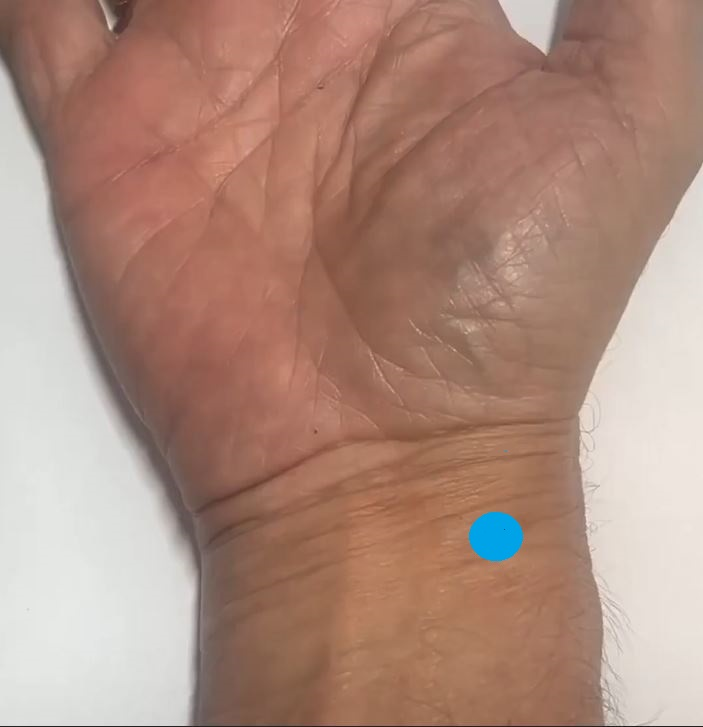
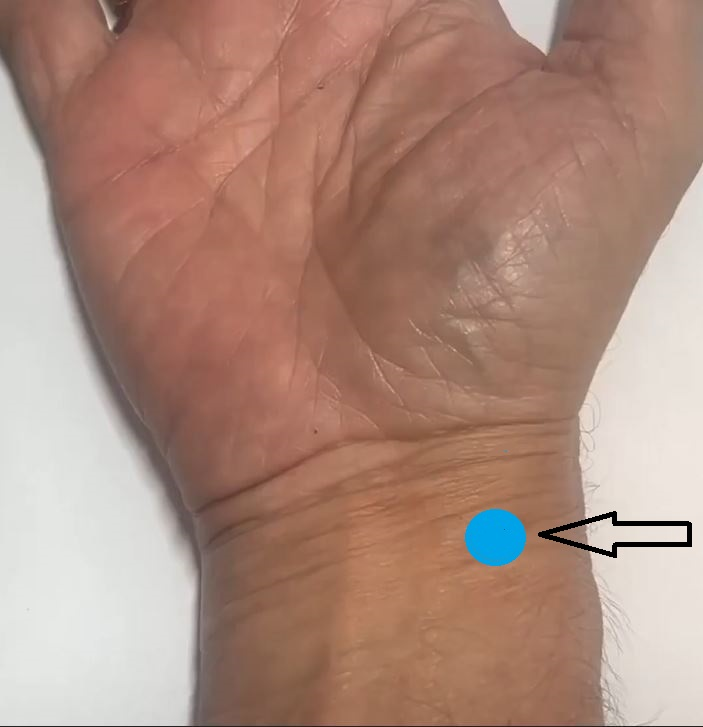
Update demo point images from Dropbox Assets.xcassets (Dec 2024)
- Updated 12 point images + 12 'a' variants
- Images copied to demo/assets/point-images/
- Updated cache-busting timestamp (v=20251207182000)
- Synchronized with iOS/RN projects

Changed region(s): [[0.6572, 0.696, 0.9858, 0.7868]]

diff --git a/demo/index.html b/demo/index.html
@@ -23,7 +23,7 @@
     <meta property="twitter:description" content="Try JetLagPro's interactive horary points system. Experience how the app helps you overcome jet lag through traditional Chinese medicine.">
     <meta property="twitter:image" content="https://jetlagpro.com/assets/images/app-icon.png">
 
-    <link rel="stylesheet" href="styles.css?v=20251206071000">
+    <link rel="stylesheet" href="styles.css?v=20251207182000">
     <link rel="icon" type="image/png" href="../assets/images/app-icon.png">
 </head>
 <body>
@@ -404,7 +404,7 @@
 
 
     <!-- Scripts -->
-    <script src="script.js?v=20251206071000"></script>
+    <script src="script.js?v=20251207182000"></script>
     <script>
         function toggleSection(sectionId) {
             const content = document.getElementById(sectionId + 'Content');
